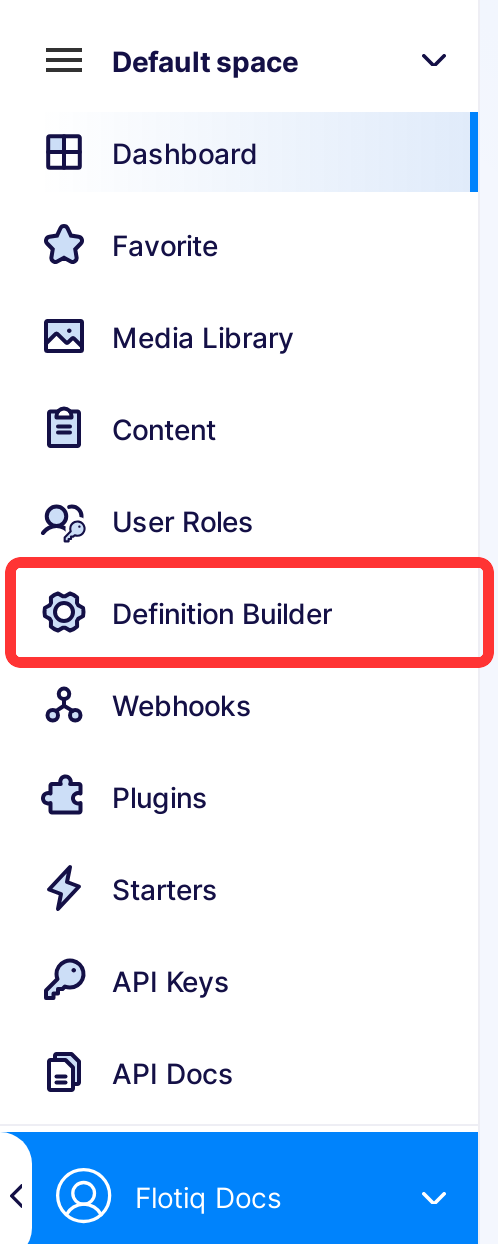
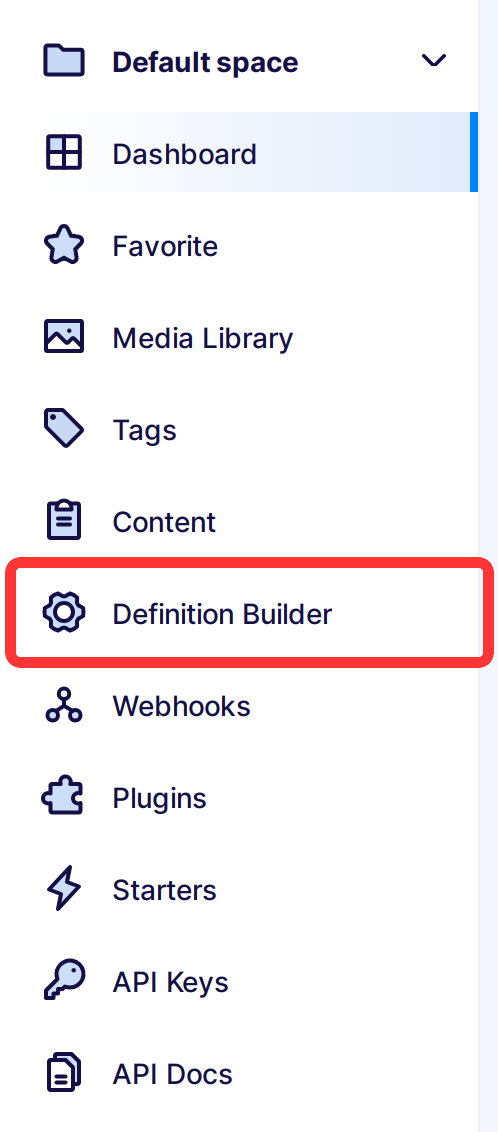
ref #21369 add media tags management info

diff --git a/docs/panel/media-library.md b/docs/panel/media-library.md
@@ -43,6 +43,30 @@ After you are done with modifying the image, press `Save changes` button and a v
 !!! Note
     Flotiq variants currently do not support creating transformations for animated GIF files.
 
+## Media tags
+
+You can add tags to your media files to help categorize and find them.
+
+To add tag to the file, use the `add tags` button on the media listing:
+
+![Add tags](./images/AddTags.png){: .border .width50 .center}
+
+It will open a modal where you can choose existing tags or create new ones.
+
+![Add tags modal](./images/AddTagsModal.png){: .border .width50 .center}
+
+When you finish editing, click the `Save` button.
+
+You can manage your tags on the Tags page:
+
+![Listing tags](./images/ListingTags.png){: .border .width50 .center}
+
+The tag contains only name field.
+
+Tag editing is compatible with standard content object editing. See more in the [editing content object description](/docs/panel/content-objects/).
+
+Mass edit is not enabled for tags, as it has only unique fields.
+
 ## API Endpoints
 
 Media library is accessible via `/api/v1/media/` endpoints. Visit your API docs to learn more.
